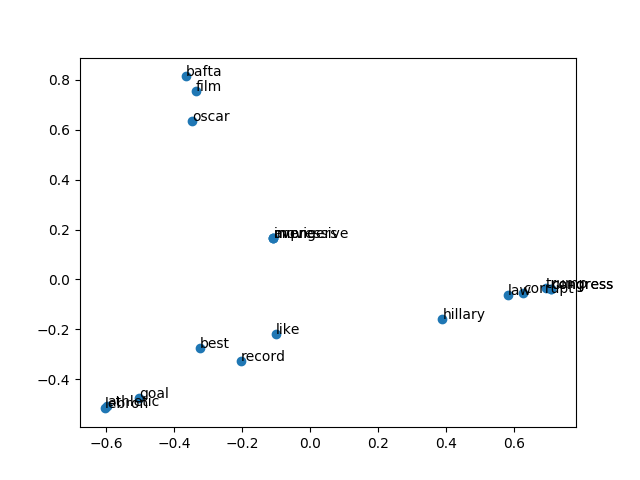
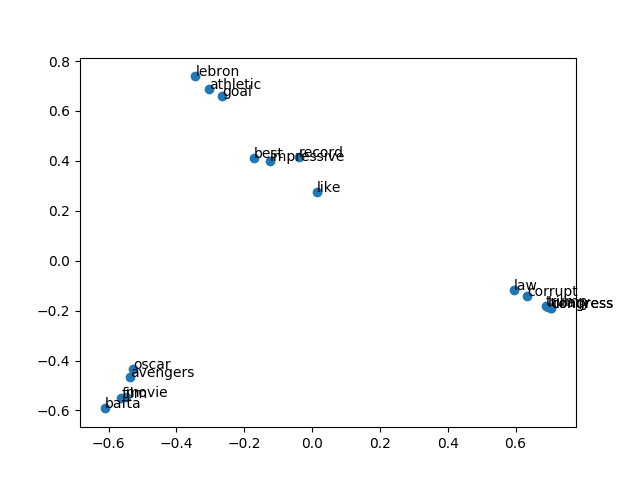
Improved visualization of word topics.

diff --git a/topic_modeling/topic_visualize.py b/topic_modeling/topic_visualize.py
@@ -6,6 +6,10 @@ import matplotlib.pyplot as plt
 from sklearn.decomposition import PCA
 from sklearn.manifold import MDS
 
+from nltk.stem.snowball import SnowballStemmer
+
+st = SnowballStemmer('english')
+
 with open('words.pickle', 'rb') as handle:
     d = pickle.load(handle)
 
@@ -33,7 +37,12 @@ word_list = [
 pca = PCA(n_components=2)
 # mds = MDS(n_components=2)
 
-transformed_word_list = pca.fit_transform([d[w] if w in d else [0, 0, 0] for w in word_list])
+l = [str((w, d[w])) + '\n' if w in d else None for w in [st.stem(w) for w in word_list]]
+
+for x in l:
+    print(x)
+
+transformed_word_list = pca.fit_transform([d[w] if w in d else [0, 0, 0] for w in [st.stem(w) for w in word_list]])
 
 plt.scatter(transformed_word_list[:, 0], transformed_word_list[:, 1])
 

diff --git a/topic_modeling/dummy.py b/topic_modeling/dummy.py
@@ -1,0 +1,1 @@
+print('hello')
